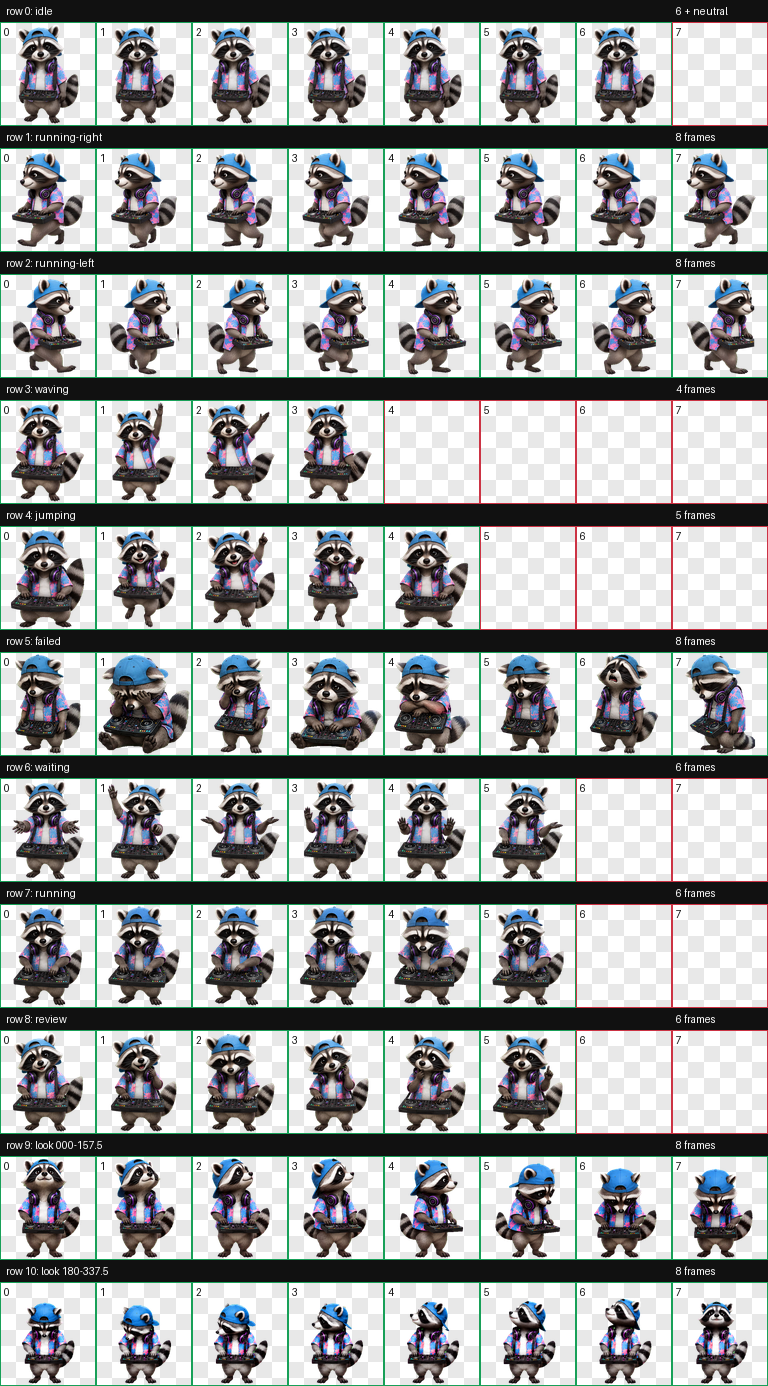
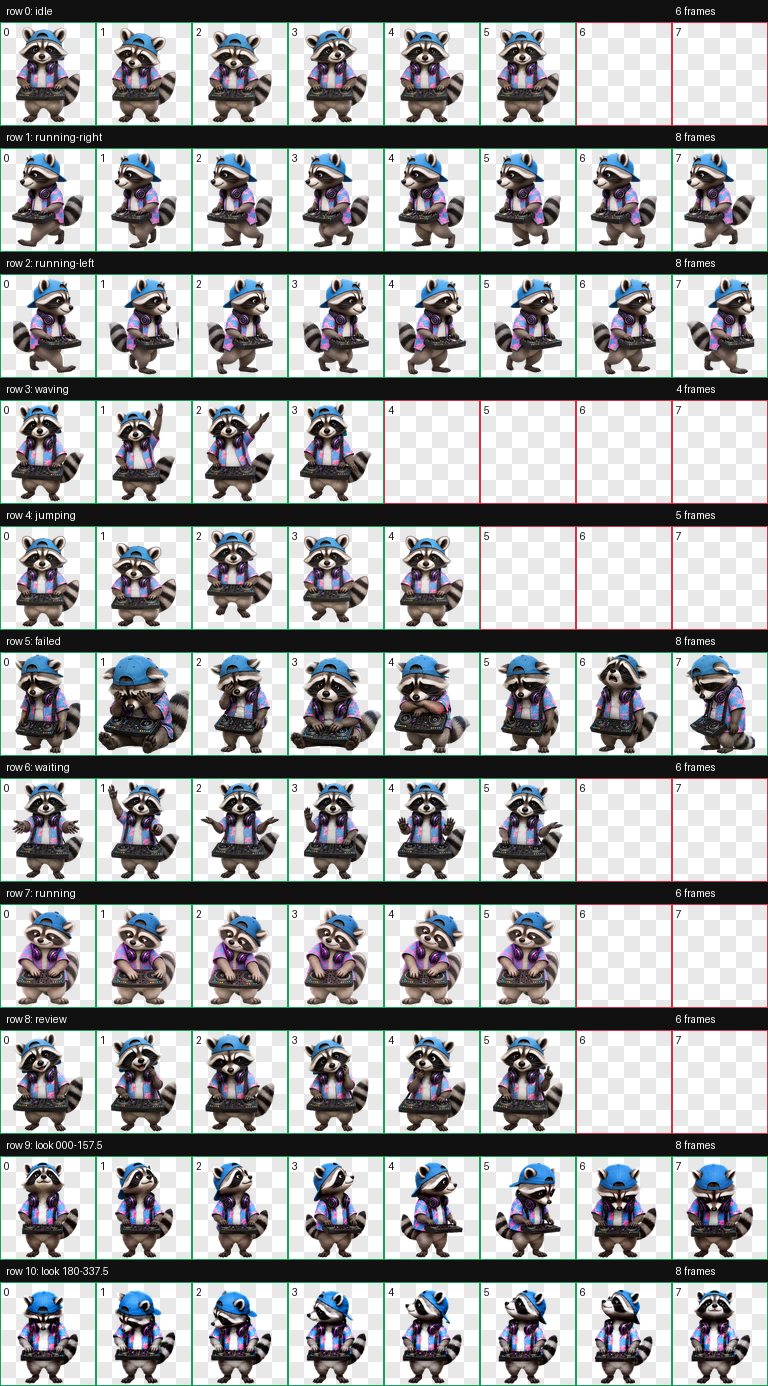
Animate Bandit's grin through the full scratch loop

diff --git a/pets/dj-bandit/README.md b/pets/dj-bandit/README.md
@@ -6,9 +6,9 @@ The launch pet for Codex Pet Collective. DJ Bandit is a smooth, compact raccoon 
 
 **License:** [CC BY 4.0](../../LICENSE)
 
-Bandit keeps a consistent size as he turns to follow the pointer: the right- and left-facing poses are now 190 and 187 pixels tall, with both feet on the same baseline. [Watch the look sweep](../../docs/dj-bandit/look-sweep.gif). Idle, jump, scratching, and the other standard animations are unchanged from the previous release.
+Bandit keeps a consistent size as he turns to follow the pointer: the right- and left-facing poses are now 190 and 187 pixels tall, with both feet on the same baseline. [Watch the look sweep](../../docs/dj-bandit/look-sweep.gif).
 
-The [new scratching expression](../../docs/dj-bandit/deck-expression-proof.png) is a single concept pose for review, not part of the installed animation.
+At the decks he now wears a sideways grin through all six frames as he pushes the record forward, pulls it back, and works the mixer. [Watch the scratch loop](../../site/assets/dj-bandit-preview.gif). The other eight standard animations are unchanged.
 
 ## Animation behavior
 

diff --git a/CHANGELOG.md b/CHANGELOG.md
@@ -1,5 +1,10 @@
 # Changelog
 
+## Unreleased — DJ Bandit at the decks
+
+- Reworked the six-frame scratching loop with a confident grin, and evened out his size across all sixteen pointer-following poses.
+- Rebuilt the package preview, site scratch loop, and atlas overview from the updated pet.
+
 ## Unreleased — DJ Bandit livelier idle and jump repair
 
 - Added the approved six-frame idle nod/blink/sway and real-speed previews.
